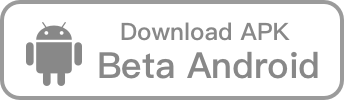
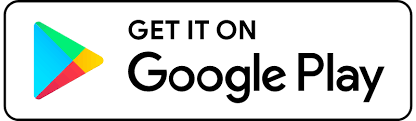
commit last

diff --git a/javascript/languages.js b/javascript/languages.js
@@ -187,7 +187,7 @@ var db_en = [
                 " Seller Releases.", "LENDING P2P", " Borrower Deposits to StiB's Smart Contracts. (Free Collateral)",
                 " Lender Sends the loan.", " Borrower Repays the loan.", " Lender Releases.",
                 "CONTACT US", "ToS", "PRIVACY"]
-    },{
+    }, {
         "video": ["Instruction"]
 
     }];
@@ -198,9 +198,9 @@ var db = db_en;
 
 
 function body(db) {
-    
+
     var body_vn =
-        `	<div class="header" id="header">
+        `<div class="header" id="header">
         <div class="container_header  d-flex flex-row align-items-center justify-content-space-between ">
             <div class="logo" id="logo-header">
                 <a href="https://stib.co/">
@@ -248,21 +248,14 @@ function body(db) {
                     </ul>
                     <div class="store d-flex flex-column">
                         <div class="androi" style="margin-bottom: 60px">
-                            <div class="wrapper-link-android">
-                            <!-- <a / apk for androi to back up
-                                    href="https://play.google.com/store/apps/details?id=com.StiBLabs.StiBp2p" target="_blank" >
-                                    <img class="btn-android" width="200" height="auto"
-                                        src="images/background/apk-androi.png">
-                                    <img class="btn-android-hover" width="200" height="auto"
-                                        src="images/background/apk-androi-hover.png">
-                                </a>
-                                google play -->
+                            <div class="wrapper-link-android">                          
                                 <a
                                 href="https://play.google.com/store/apps/details?id=com.StiBLabs.StiBp2p" target="_blank" >
                                 <img class="btn-android" width="200" height="auto"
-                                    src="images/background/app-store-android.png">
-                             <!--   <img class="btn-android-hover" width="200" height="auto"
-                                    src="images/background/apk-androi-hover.png"> -->
+                                src="images/background/apk-androi.png"> 
+                               <img class="btn-android-hover" width="200" height="auto"
+                               src="images/background/app-store-android.png">
+                                   
                             </a>
                                 <div class="wrapper btn-video">
                                     <button type="button" class="video-btn rounded-circle" data-toggle="modal"
@@ -314,7 +307,7 @@ function body(db) {
                                                     allow="accelerometer; autoplay; encrypted-media; gyroscope; picture-in-picture"
                                                     allowfullscreen></iframe> -->
                                                     <video id="video-tut" autoplay muted="muted" loop playsinline >
-                                                      <source src="images/video/`+db[5].video[0]+`.mp4" type = "video/mp4"> 
+                                                      <source src="images/video/`+ db[5].video[0] + `.mp4" type = "video/mp4"> 
                                                         This browser doesn't support video tag.
                                                     </video>
                                             </div>
@@ -674,9 +667,9 @@ function body(db) {
             <span> <a href="https://stib.co/index.php?showpage=privacy">`+ db[4].step[12] + `</a> </span>
         </div>
     </div>` ;
-   
+
     $(document).ready(function () {
-       
+
         $('#icon_menu').click(function (event) {
             event.preventDefault();
             $("#menu_show").fadeToggle("slow");

diff --git a/style/header-appmain.css b/style/header-appmain.css
@@ -623,17 +623,17 @@ ul.list-service li i {
     }
 }
 
- .btn-ios-hover {
+ .btn-ios-hover, .btn-android-hover {
     opacity: 0;
     visibility: hidden;
 }
 
-.wrapper-link-ios a:hover img.btn-ios-hover {
+.wrapper-link-ios a:hover img.btn-ios-hover, .wrapper-link-android a:hover img.btn-android-hover {
     opacity: 1;
     visibility: visible;
 }
 
-.wrapper-link-ios a:hover img.btn-ios {
+.wrapper-link-ios a:hover img.btn-ios, .wrapper-link-android a:hover img.btn-android {
     opacity: 0;
     visibility: hidden;
 } 
